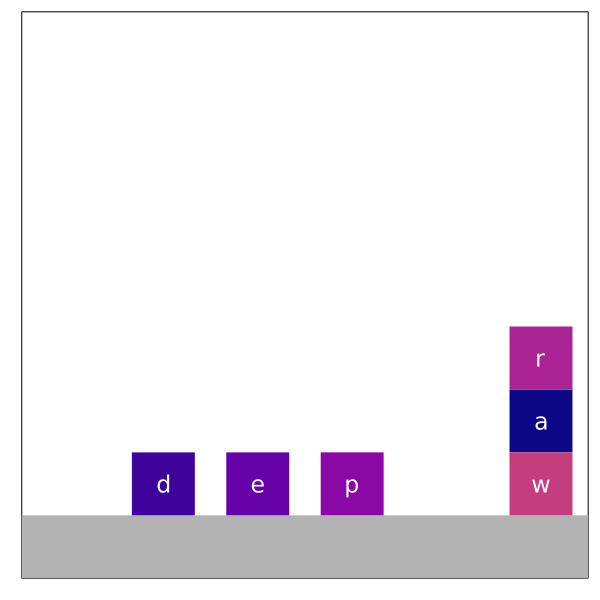
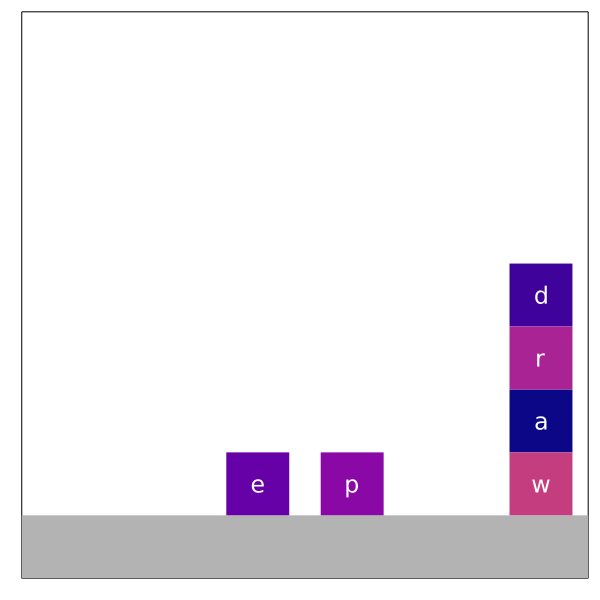
updating scenario 2-4

Changed region(s): [[0.84, 0.42, 0.96, 0.57], [0.21, 0.75, 0.33, 0.87]]

diff --git a/public/app.js b/public/app.js
@@ -688,13 +688,13 @@ experimentApp.controller('ExperimentController',
       },
       {
         "trial": 0,
-        "times": [1, 2, 3, 4, 5, 6, 7, 8],
+        "times": [1, 2, 3, 4, 5, 6, 7],
         "name": "scenario_2_4",
         "optimal": true,
         "goal_space": ["raw", "paw", "draw", "war", "wear"],
         "goal": 2,
         "problem": 2,
-        "length": 8,
+        "length": 7,
         "images": [
           "stimuli/2/4/0.png",
           "stimuli/2/4/0.gif",
@@ -702,8 +702,7 @@ experimentApp.controller('ExperimentController',
           "stimuli/2/4/2.gif",
           "stimuli/2/4/3.gif",
           "stimuli/2/4/4.gif",
-          "stimuli/2/4/5.gif",
-          "stimuli/2/4/6.gif"
+          "stimuli/2/4/5.gif"
         ]
       },
       {
